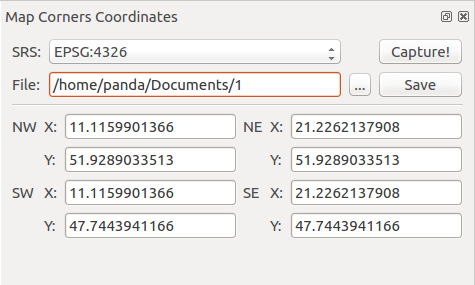
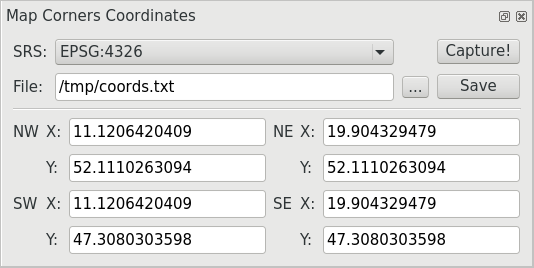
documentation updated (new screenshots, example of output)

diff --git a/docs/source/index.rst b/docs/source/index.rst
@@ -15,9 +15,27 @@ Screenshots
 
 .. figure:: pluginScreen.png
 
-   *Fig 1: Plugin dialog*
+   *Fig 1: Example for WGS-84*
 
-.. figure:: output.png
+.. figure:: pluginScreen1.png
 
-   *Fig 2: Example of output file*
+   *Fig 2: Example for user-defined SRS*
 
+Output
+******
+
+Example of saved plain text file:
+
+::
+
+   Map Corners Coordinates
+   Project: webapp
+   SRS: EPSG:4326
+   NW (upper left)   (X): 11.1206420409
+   NW (upper left)   (Y): 52.1110263094
+   NE (upper right)  (X): 19.904329479
+   NE (upper right)  (Y): 52.1110263094
+   SE (bottom right) (X): 19.904329479
+   SE (bottom right) (Y): 47.3080303598
+   SW (bottom left)  (X): 11.1206420409
+   SW (bottom left)  (Y): 47.3080303598
